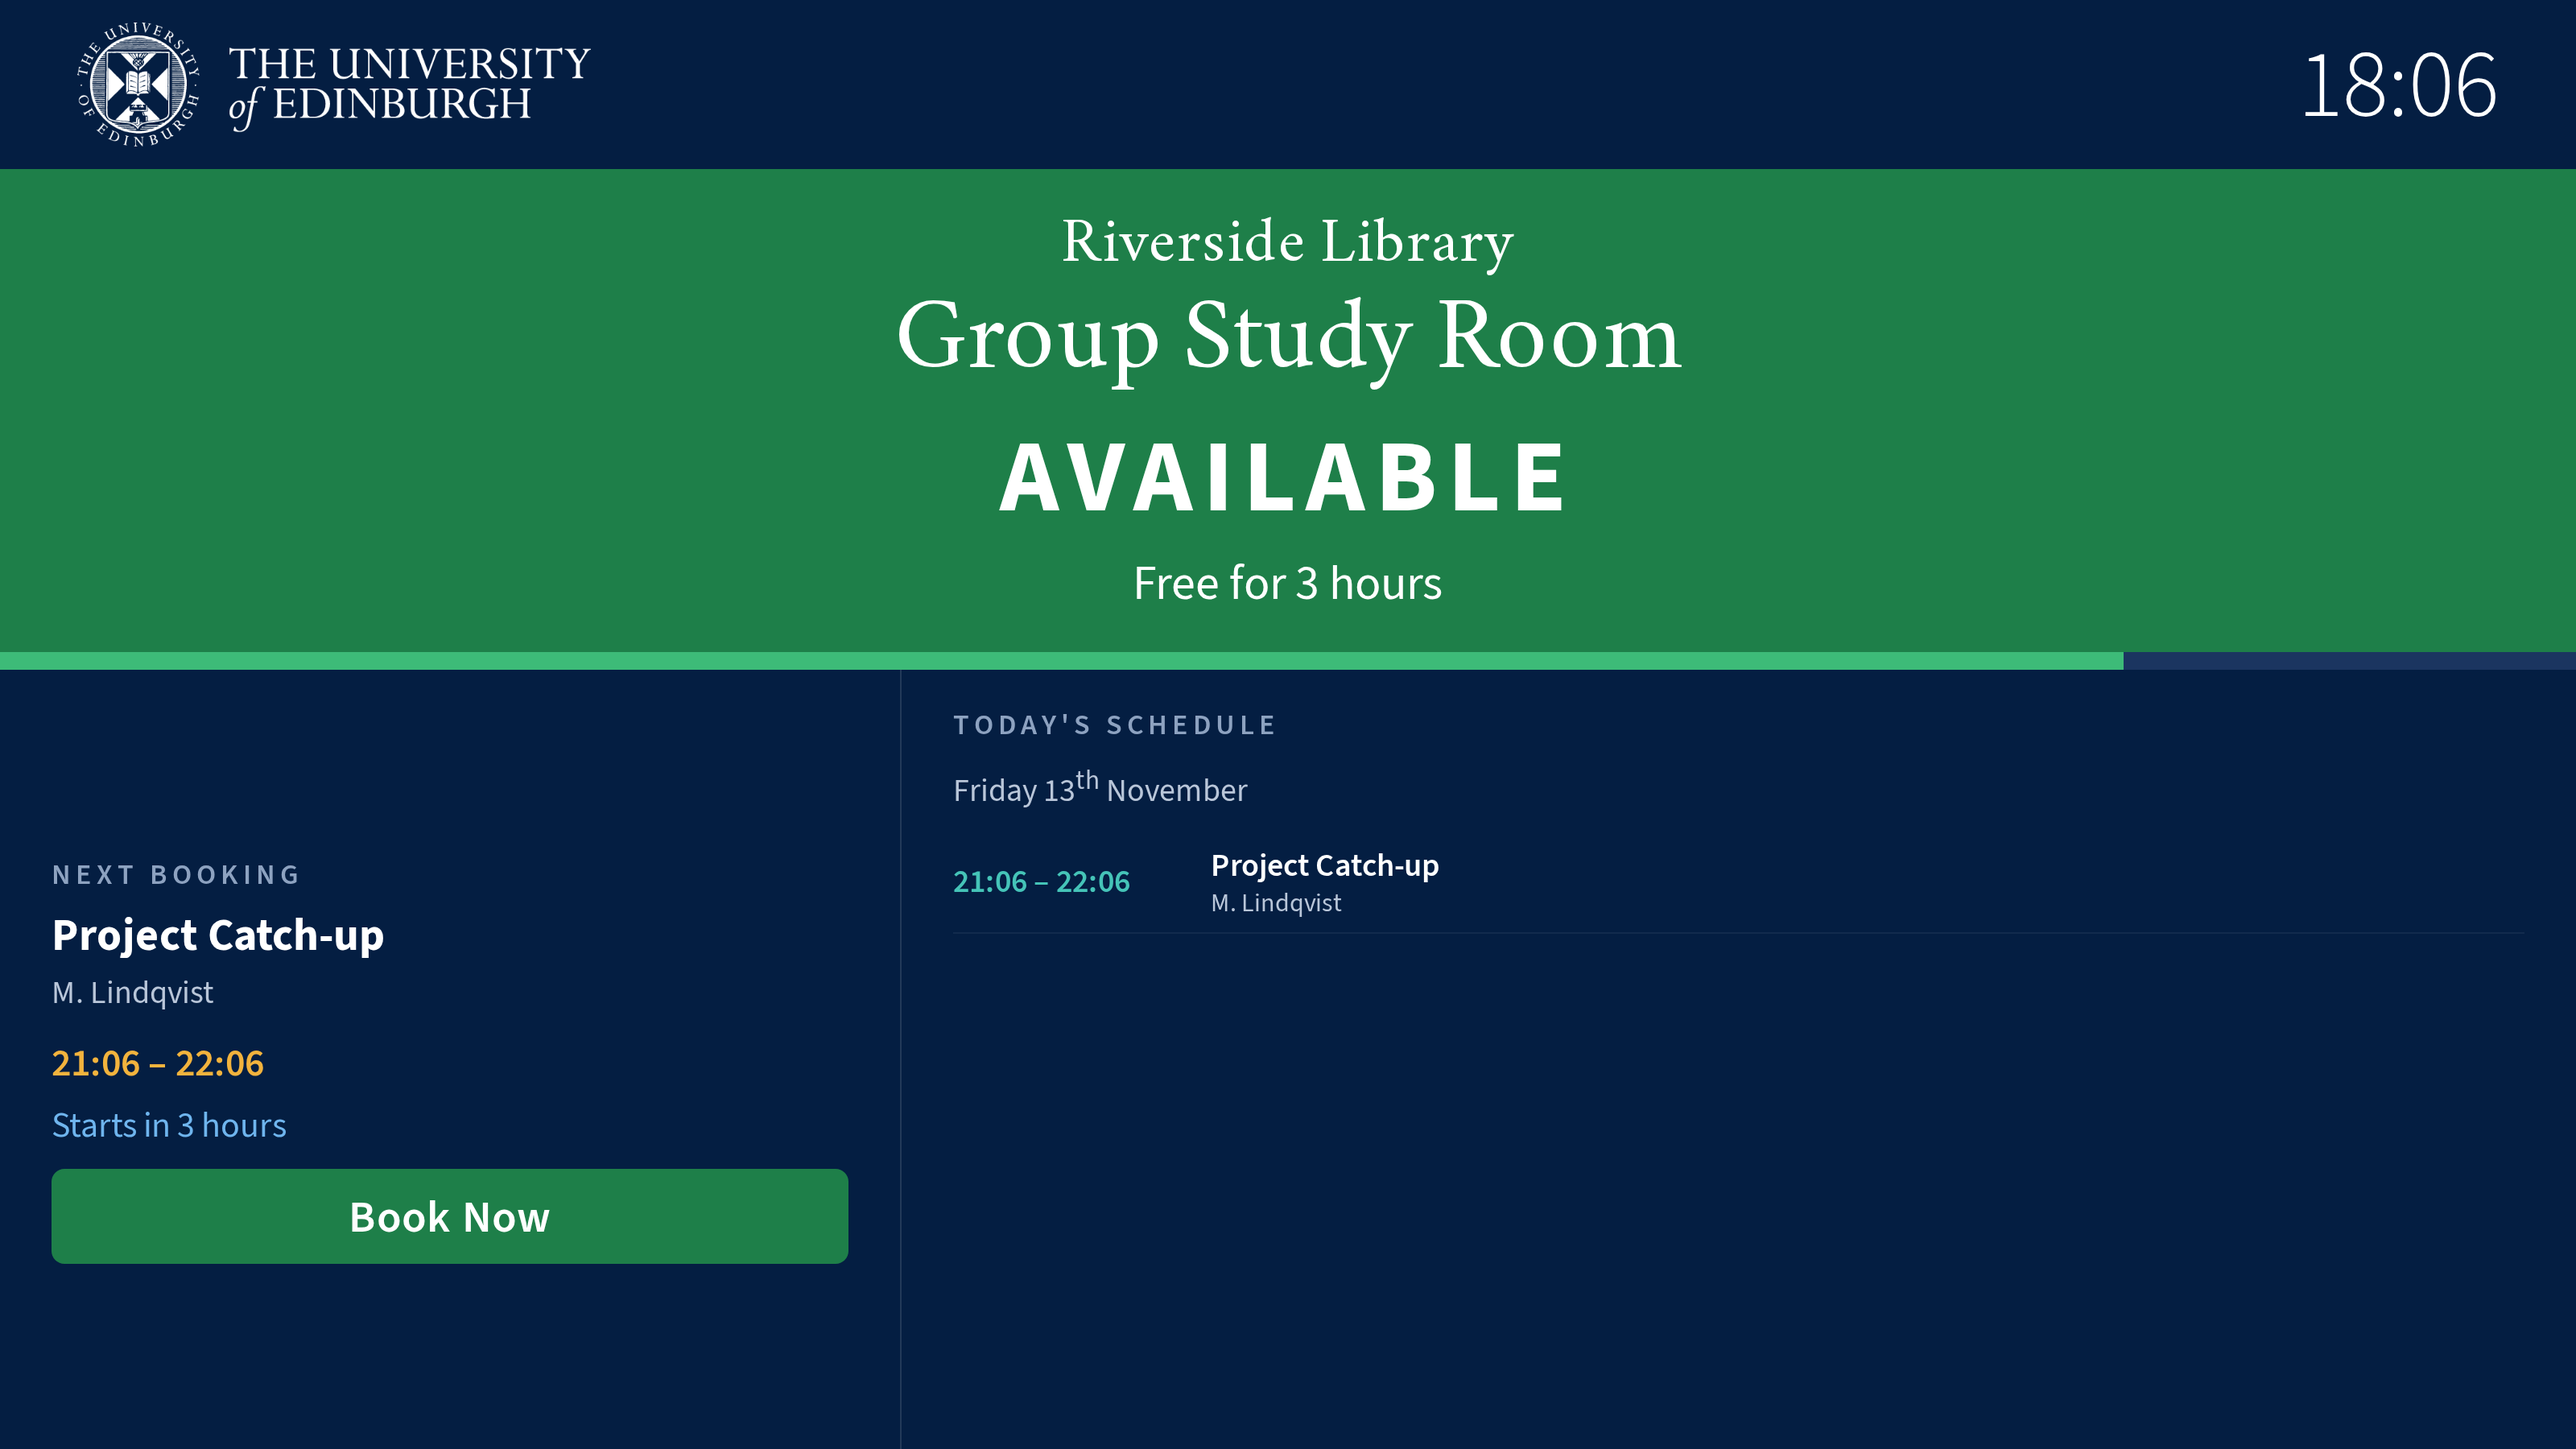
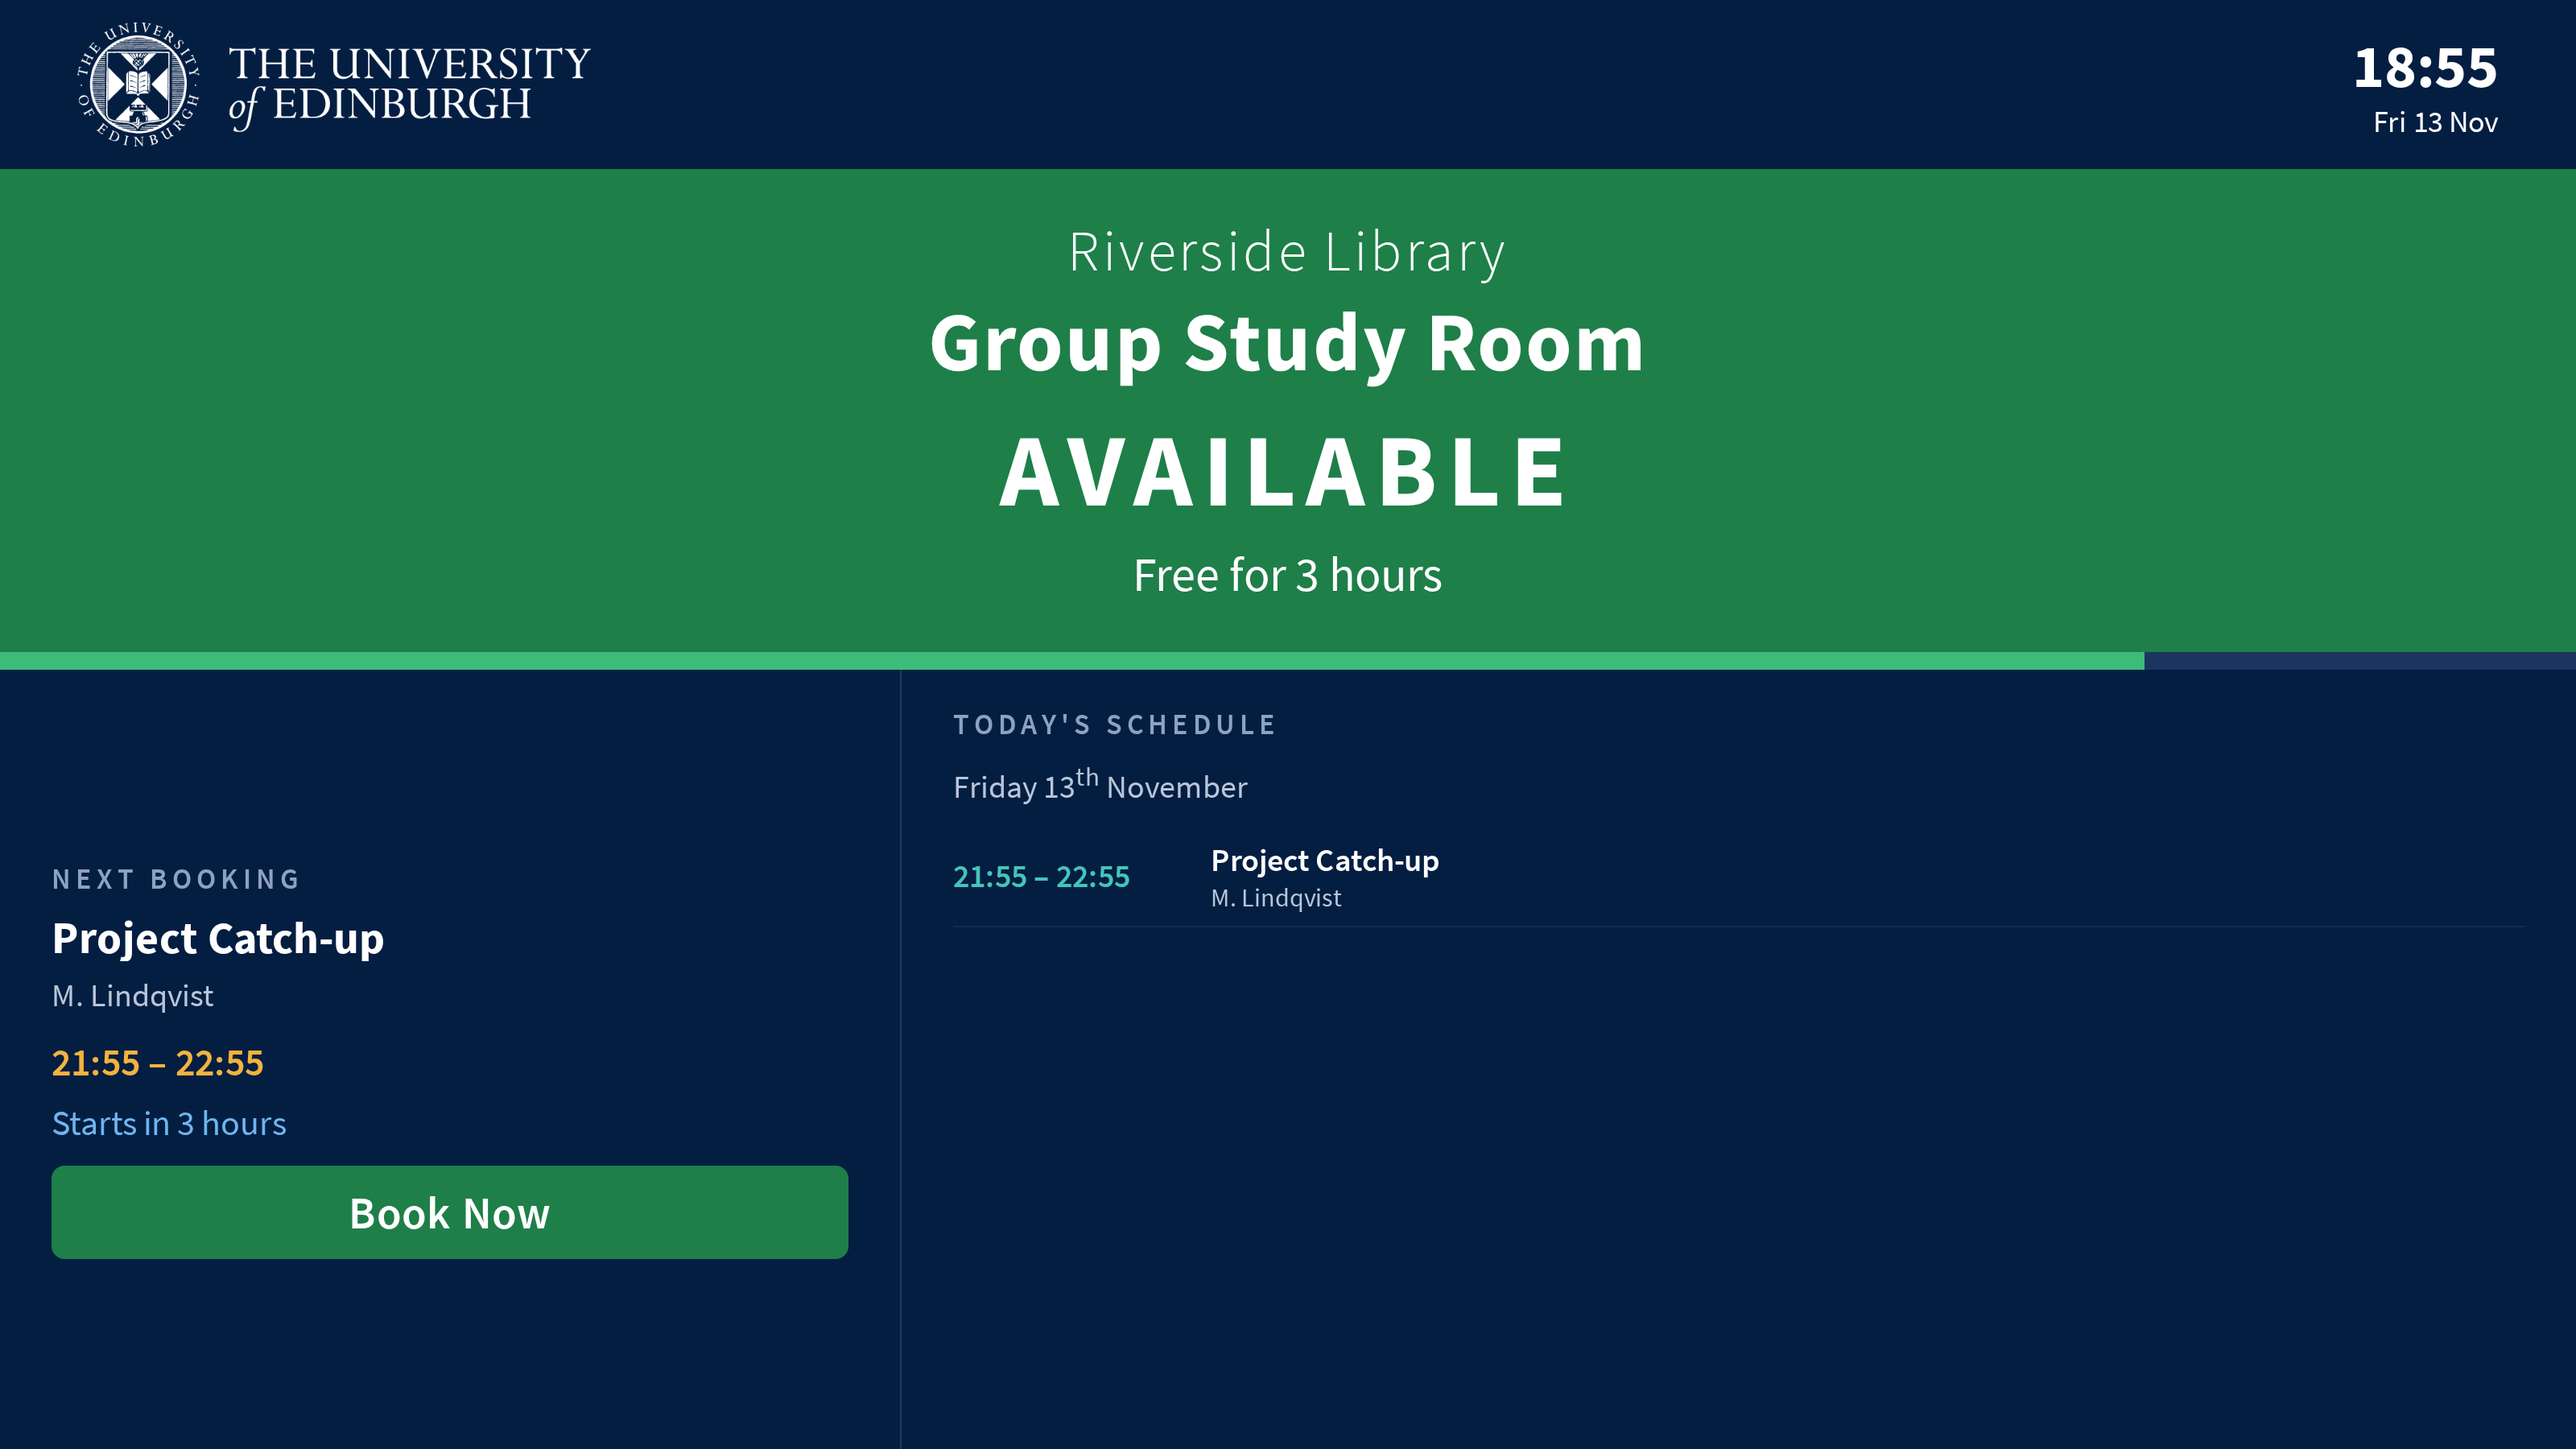
feat: Update room display descriptions and enhance layout images

diff --git a/helpdocs/content/technical/room-displays.md b/helpdocs/content/technical/room-displays.md
@@ -97,7 +97,7 @@ honour.
 | Layout | What it looks like | Best for |
 |---|---|---|
 | **Standard** | A list of the day's bookings, with the current one enlarged | Most room screens. The default. |
-| **Screen** | A navy University masthead with the logo and clock, over a large coloured banner — *Available*, *Busy Soon* or *In Use* — with a live countdown, a progress bar, the next booking and the day's schedule beneath. Stretches to fill the display. | Widescreen displays that should read from across a corridor |
+| **Screen** | A navy University masthead with the logo, clock and date, over a large coloured banner — *Available*, *Busy Soon* or *In Use* — with a live countdown, a progress bar, the next booking and the day's schedule beneath. Stretches to fill the display. | Widescreen displays that should read from across a corridor |
 | **Tablet** | The same banner design, laid out for a 1280×800 tablet and scaled to fit | Wall-mounted tablets, especially ones used for booking |
 
 ![The Screen layout](screenshot:room-layout-screen)
